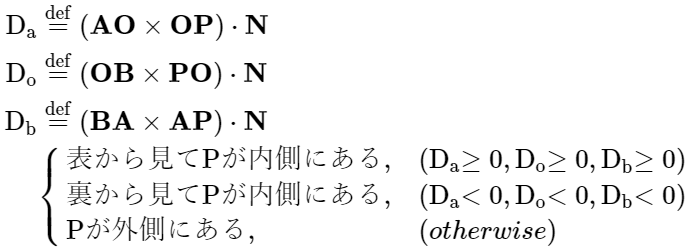
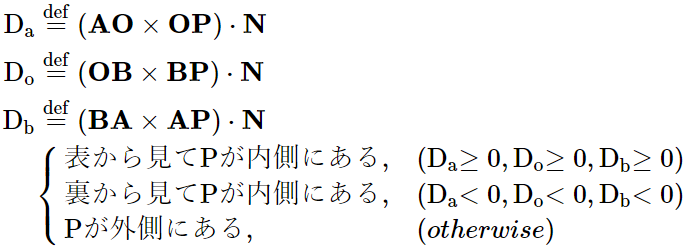
更新

diff --git a/image/立体化/内外判定.tex b/image/立体化/内外判定.tex
@@ -1,6 +1,6 @@
 \begin{align}
 	\rm{D_a} &\stackrel{\mathrm{def}}{=} (\mathbf{AO} \times \mathbf{OP}) \cdot \mathbf{N}\\
-	\rm{D_o} &\stackrel{\mathrm{def}}{=} (\mathbf{OB} \times \mathbf{PO}) \cdot \mathbf{N}\\
+	\rm{D_o} &\stackrel{\mathrm{def}}{=} (\mathbf{OB} \times \mathbf{BP}) \cdot \mathbf{N}\\
 	\rm{D_b} &\stackrel{\mathrm{def}}{=} (\mathbf{BA} \times \mathbf{AP}) \cdot \mathbf{N}\\
 	&\begin{cases}
 		表から見て\rm{P}が内側にある,&(\rm{D_a}\rm{\ge0}, \rm{D_o}\rm{\ge0}, \rm{D_b}\rm{\ge0})\\
